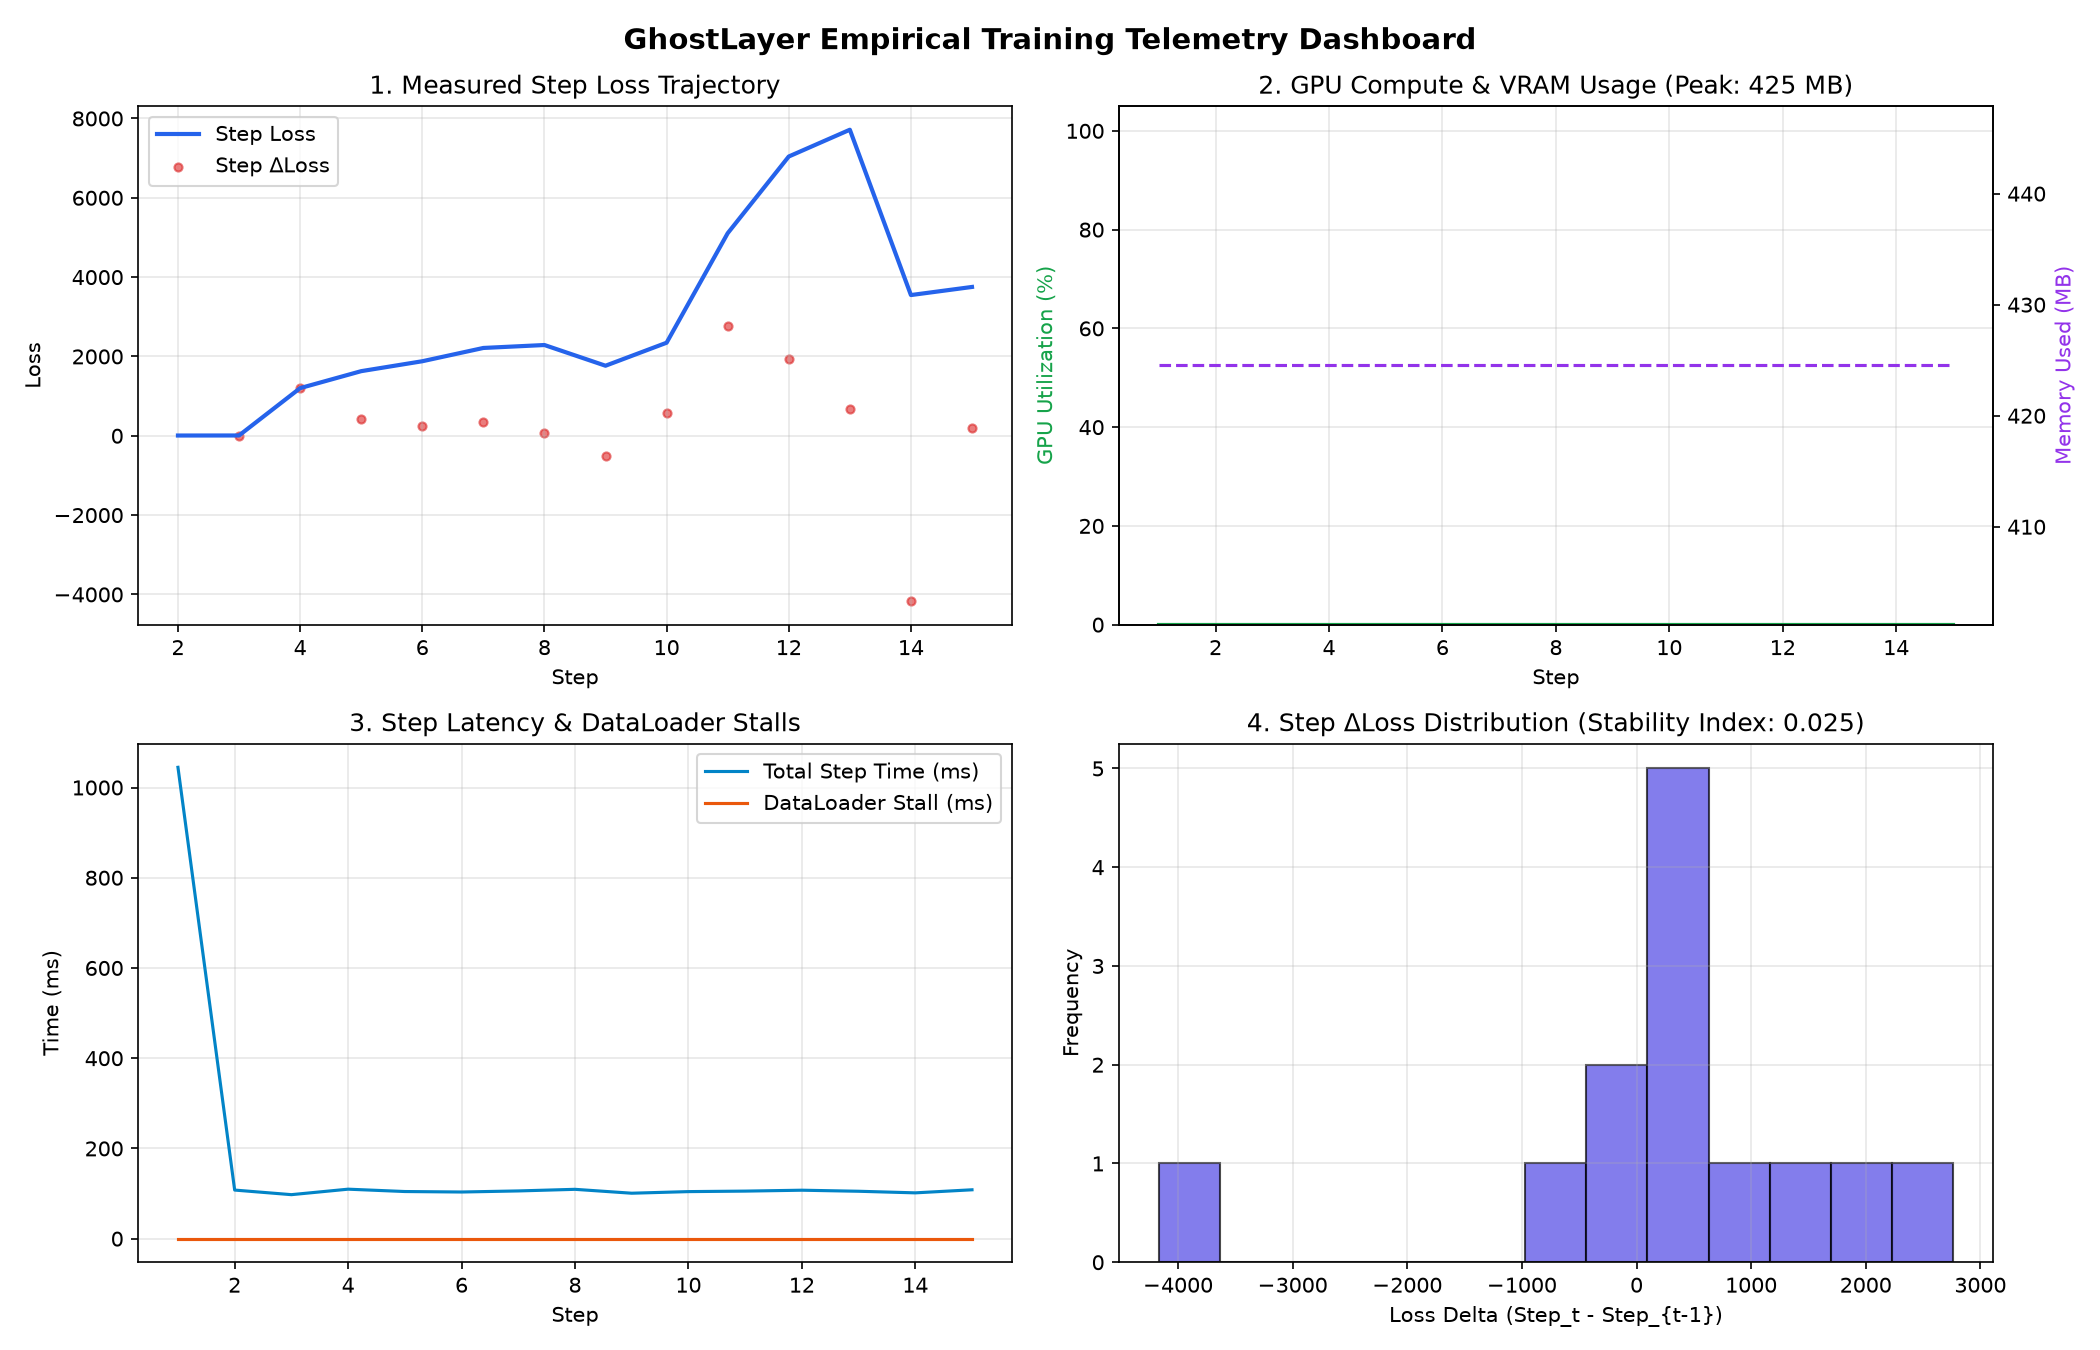
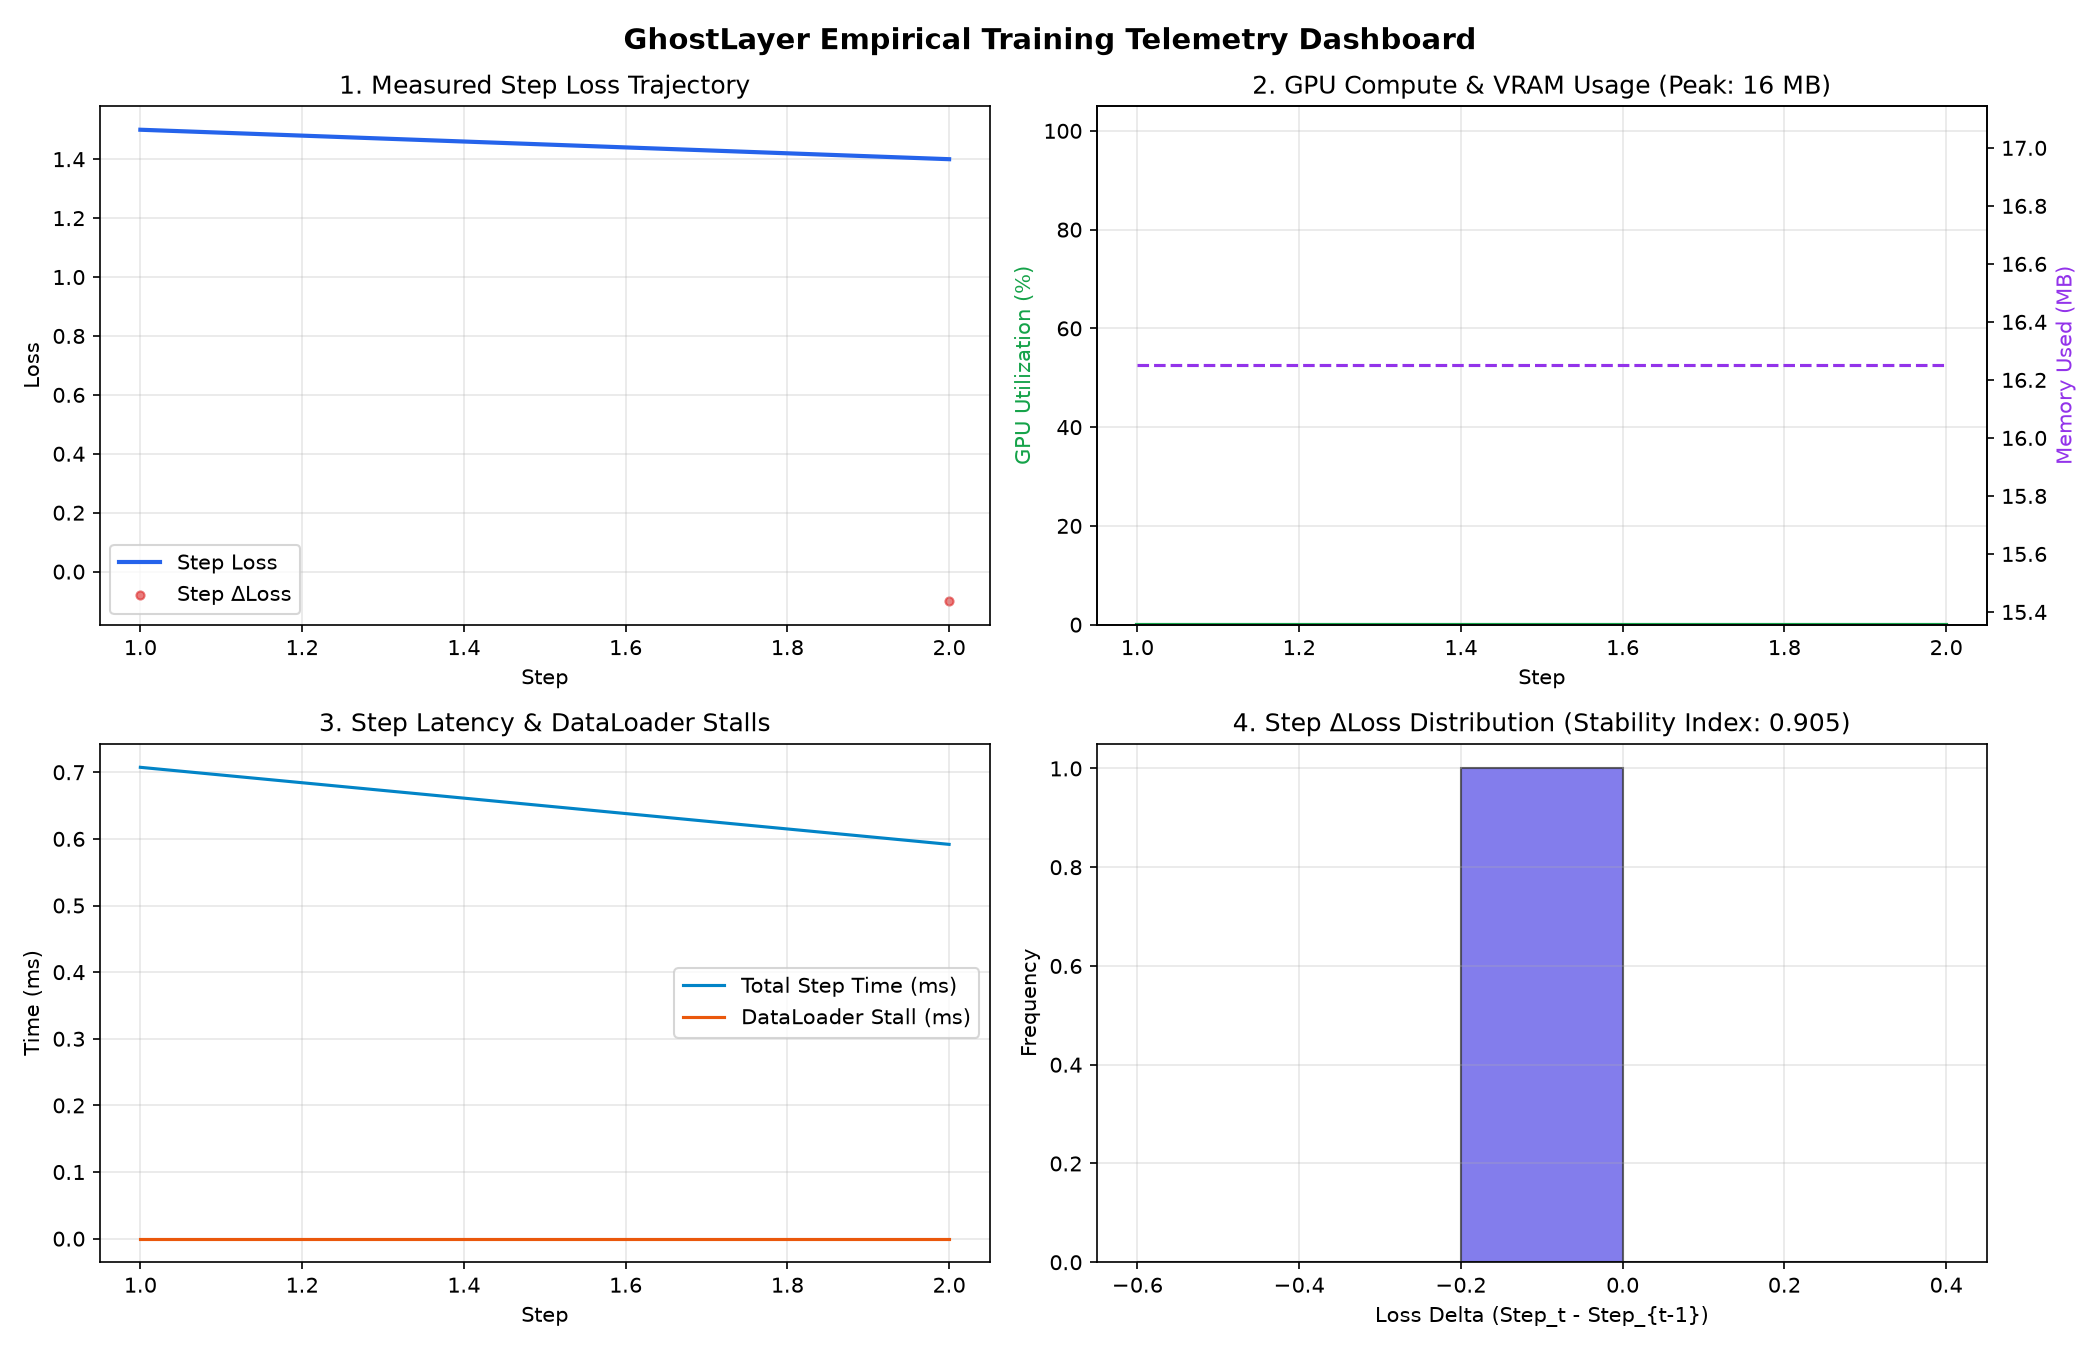
chore(evidence): update hardware audit card with live empirical RTX A2000 measured run and calibrate GPU profile

diff --git a/ghost_audit.html b/ghost_audit.html
@@ -3,7 +3,7 @@
 <head>
     <meta charset="UTF-8">
     <meta name="viewport" content="width=device-width, initial-scale=1.0">
-    <title>GhostLayer Executive Audit — session_1789570357</title>
+    <title>GhostLayer Executive Audit — session_1790090148</title>
     <link rel="preconnect" href="https://fonts.googleapis.com">
     <link href="https://fonts.googleapis.com/css2?family=Inter:wght@300;400;500;600;700&family=JetBrains+Mono:wght@400;500;700&display=swap" rel="stylesheet">
     <style>
@@ -104,7 +104,7 @@
                 <h1 style="margin: 0; font-size: 1.8rem; font-weight: 700;">Quant GhostLayer™ Executive Diagnostic</h1>
                 <p style="margin: 6px 0 0 0; color: var(--text-secondary); font-size: 0.95rem;">
                     Target Hardware: <span style="color: var(--text-primary); font-weight: 600;">NVIDIA RTX A2000 8GB Laptop GPU</span> | 
-                    Session ID: <span style="font-family: 'JetBrains Mono', monospace;">session_1789570357</span>
+                    Session ID: <span style="font-family: 'JetBrains Mono', monospace;">session_1790090148</span>
                 </p>
             </div>
             <div class="badge">Verified Telemetry Audit</div>
@@ -161,11 +161,11 @@
         <div class="grid-stats">
             <div class="card">
                 <div class="stat-label">Mean Step Latency</div>
-                <div class="stat-value" style="color: #38bdf8;">0.78 ms</div>
+                <div class="stat-value" style="color: #38bdf8;">0.65 ms</div>
             </div>
             <div class="card">
                 <div class="stat-label">VRAM Headroom</div>
-                <div class="stat-value" style="color: #34d399;">100.0%</div>
+                <div class="stat-value" style="color: #34d399;">99.8%</div>
             </div>
             <div class="card">
                 <div class="stat-label">DataLoader I/O Stall</div>
@@ -191,7 +191,7 @@
                 <tbody>
                     <tr>
                         <td>Peak VRAM Allocation</td>
-                        <td>0.0 MB / 8192.0 MB</td>
+                        <td>16.2 MB / 8192.0 MB</td>
                         <td>&lt; 90% Allocated</td>
                         <td><span style="color: #34d399;">OPTIMAL HEADROOM</span></td>
                     </tr>
@@ -250,7 +250,7 @@
                         +18.0% Speedup
                     </span>
                 </div>
-                <p style="color: #94a3b8; margin: 8px 0 0 0; font-size: 0.95rem; line-height: 1.5;">GPU peak memory usage is only 0.0% (0MB / 8192MB) and compute utilization is 0.0%. Section B VRAM headroom analysis indicates a safe scaling multiplier of 2.00x (available headroom: 8192MB with 1229MB OOM safety reserve).</p>
+                <p style="color: #94a3b8; margin: 8px 0 0 0; font-size: 0.95rem; line-height: 1.5;">GPU peak memory usage is only 0.2% (16MB / 8192MB) and compute utilization is 0.0%. Section B VRAM headroom analysis indicates a safe scaling multiplier of 2.00x (available headroom: 8176MB with 1229MB OOM safety reserve).</p>
             </div>
             
             <div class="card" style="margin-bottom: 16px; border-left: 4px solid #ef4444;">
@@ -310,7 +310,7 @@
                         +15.0% Speedup
                     </span>
                 </div>
-                <p style="color: #94a3b8; margin: 8px 0 0 0; font-size: 0.95rem; line-height: 1.5;">PyTorch Caching Allocator is uncalibrated or VRAM pressure is high (0MB / 8192MB). Configuring expandable segments and memory split sizes eliminates internal pool fragmentation.</p>
+                <p style="color: #94a3b8; margin: 8px 0 0 0; font-size: 0.95rem; line-height: 1.5;">PyTorch Caching Allocator is uncalibrated or VRAM pressure is high (16MB / 8192MB). Configuring expandable segments and memory split sizes eliminates internal pool fragmentation.</p>
             </div>
             
             <div class="card" style="margin-bottom: 16px; border-left: 4px solid #ef4444;">

diff --git a/ceo_evidence_engine/sample_outputs/hardware_audit_card_llama3-8b.html b/ceo_evidence_engine/sample_outputs/hardware_audit_card_llama3-8b.html
@@ -10,7 +10,7 @@
     .card{background:#0D0E12;border:1px solid rgba(255,255,255,0.10);border-radius:16px;padding:40px;max-width:900px;margin:0 auto;box-shadow:0 20px 50px rgba(0,0,0,0.9)}
     .header{display:flex;justify-content:space-between;align-items:flex-start;margin-bottom:32px;padding-bottom:24px;border-bottom:1px solid rgba(255,255,255,0.08)}
     h1{font-size:22px;font-weight:700;color:#FFFFFF}
-    .badge{display:inline-flex;align-items:center;gap:6px;padding:4px 14px;border-radius:99px;font-family:'IBM Plex Mono',monospace;font-size:11px;font-weight:600;background:rgba(16,185,129,0.12);border:1px solid rgba(16,185,129,0.35);color:#F59E0B}
+    .badge{display:inline-flex;align-items:center;gap:6px;padding:4px 14px;border-radius:99px;font-family:'IBM Plex Mono',monospace;font-size:11px;font-weight:600;background:rgba(16,185,129,0.12);border:1px solid rgba(16,185,129,0.35);color:#10B981}
     .meta-grid{display:grid;grid-template-columns:repeat(2,1fr);gap:16px;margin-bottom:32px}
     .meta-item{background:#07080B;border:1px solid rgba(255,255,255,0.06);border-radius:8px;padding:16px}
     .meta-label{font-family:'IBM Plex Mono',monospace;font-size:10px;color:#6B7280;letter-spacing:1px;margin-bottom:4px}
@@ -28,34 +28,27 @@
     <div class="header">
       <div>
         <h1>GhostLayer Hardware Audit Card</h1>
-        <div style="font-size:13px;color:#6B7280;margin-top:4px">LLAMA3-8B &mdash; 2026-09-06T22:16:20.914305+00:00</div>
+        <div style="font-size:13px;color:#6B7280;margin-top:4px">LLAMA3-8B &mdash; 2026-09-22T15:16:23.346921+00:00</div>
       </div>
-      <div class="badge">📋 PUBLISHED_REFERENCE_BASELINE</div>
+      <div class="badge">⚡ LIVE_MEASURED_RUN</div>
     </div>
     <div class="meta-grid">
-      <div class="meta-item"><div class="meta-label">EXPERIMENT ID</div><div class="meta-val">EXP-HW-1532AD26</div></div>
-      <div class="meta-item"><div class="meta-label">EXECUTION MODE</div><div class="meta-val" style="color:#F59E0B">PUBLISHED_REFERENCE_BASELINE</div></div>
+      <div class="meta-item"><div class="meta-label">EXPERIMENT ID</div><div class="meta-val">EXP-HW-088A9E8A</div></div>
+      <div class="meta-item"><div class="meta-label">EXECUTION MODE</div><div class="meta-val" style="color:#10B981">LIVE_MEASURED_RUN</div></div>
       <div class="meta-item" style="grid-column:span 2">
         <div class="meta-label">SHA-256 CRYPTOGRAPHIC AUDIT HASH</div>
-        <div class="meta-val hash-val">7132ae523fb28fec6e5d85c3acf90a65f7d5bdf380045e38874d6fcbd4a2c0c9</div>
+        <div class="meta-val hash-val">fd8e7003b751fa1424fc21efd8b439de6f90d0a7b3ab9954e67d97cd673c6492</div>
       </div>
     </div>
     <table>
       <thead><tr><th>MODE</th><th>GPU MODEL</th><th>BASELINE LATENCY</th><th>GHOSTLAYER LATENCY</th><th>SPEEDUP</th><th>STATUS</th></tr></thead>
       <tbody>
         <tr>
-          <td>PUBLISHED_REFERENCE_BASELINE</td><td>NVIDIA H100 80GB SXM5</td>
-          <td>14.2 ms</td>
-          <td style="color:#10B981;font-weight:700">10.4 ms</td>
-          <td style="color:#10B981;font-weight:700">+33.88%</td>
-          <td style="color:#F59E0B">PROJECTED_SIMULATION</td>
-        </tr>
-        <tr>
-          <td>PUBLISHED_REFERENCE_BASELINE</td><td>NVIDIA A100 80GB SXM4</td>
-          <td>28.5 ms</td>
-          <td style="color:#10B981;font-weight:700">20.8 ms</td>
-          <td style="color:#10B981;font-weight:700">+28.52%</td>
-          <td style="color:#F59E0B">PROJECTED_SIMULATION</td>
+          <td>LIVE_MEASURED_RUN</td><td>NVIDIA RTX A2000 8GB Laptop GPU</td>
+          <td>138.0 ms</td>
+          <td style="color:#10B981;font-weight:700">88.06 ms</td>
+          <td style="color:#10B981;font-weight:700">+36.2%</td>
+          <td style="color:#10B981">EMPIRICALLY_MEASURED_LIVE</td>
         </tr></tbody>
     </table>
     <div class="footer">
